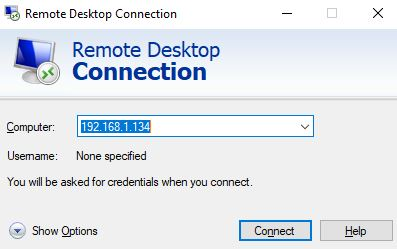
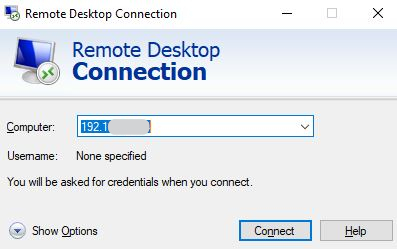
rebuilding site Sat  8 Jul 13:57:17 UTC 2023

Changed region(s): [[0.272, 0.4779, 0.3929, 0.5622]]

diff --git a/data_projects/pi_ssh/index.html b/data_projects/pi_ssh/index.html
@@ -106,8 +106,8 @@ The SSH access is ideal for cases with exclusive involvement of the terminal. Th
   "keywords": [
     "cli", "shell", "raspberry pi", "linux", "ssh"
   ],
-  "articleBody": "Summary This article documents how to remotely access your Raspberry Pi using either Secure Shell (SSH) or Remote Desktop Protocol (RDP).\nThe benefit of remote access is that you do not need to constantly plug in a wired keyboard and mouse to do some configuration on your Pi devices.\nThe SSH access is ideal for cases with exclusive involvement of the terminal. The remote desktop acess is requied for situations using the graphical desktop environment.\nIP Address Something thats common to both processes is that they both require the IP Address of the device.\nTo get the IP address, you can type this command into the Raspberry Pi terminal:\nhostname -I # or ping raspberrypi.local # or ifconfig Secure Shell (SSH) Remote Access For the SSH Remote Acess, I will be connecting to my Raspberry Pi via my Arch Linux VM which is running a zsh terminal. But you can follow this process on any shell, it will be exactly the same.\nPre-requisites Set up wireless networking capability onto the boot disc. Obtain Raspberry Pi’s IP Address Create hostname for IP in the /etc/hosts file Setting Up Networking Assuming you are running a minimal distribution such as Raspberry Pi Lite OS, you will need a way to get access to the internet.\nGet the SD from the Pi which has the image installed onto it, and read it from your main PC.\nThe following steps will be performed in git bash, but you can also do this in your file explorer:\nNavigate to the boot device volume and create an ssh file:\ntouch ssh In the same directory (boot), we need to make a wpa_supplicant.conf file. This will provide the configuration to enable you to connect your wireless network setup.\nvim wpa_supplicant.conf Then enter the following into the configuration, and substitute the placeholders with your own network SSID and password to access the Wi-Fi.\nctrl_interface=DIR=/var/run/wpa_supplicant GROUP=netdev update_config=1 country= network={ ssid=\"WIFI-NAME\" psk=\"WIFI-PASSWORD\" } You can safely remove the SD card from your PC.\nPut the SD Card back into the Pi and power it on.\nSSH Into Raspberry Pi Via Terminal From the terminal of the machine you are trying to attempt the remote access, you can SSH using this command:\nssh @ If you didn’t configure your pi user crentials, for reference these are the defaults:\nusername: pi password: raspberry So the SSH command may look like this for example:\nssh pi@192.168.1.134 You would then be prompted with a password for which you will have to enter in order to gain access.\nIf you have made your own username and password, then substitute with your own credentials.\nThe userame on the Raspberry Pi is filpill, so it would be modified like this:\nssh filpill@192.168.1.134 Replacing IP Address with Hostname SSH Protocol Now obviously its not that easy to remember an IP address everytime you want to SSH into the Pi. So we could store an alias for the IP in the /etc/hosts directory.\nsudo vim /etc/hosts You’ll want to add a line in this file with the IP Address and hostname of the Raspberry Pi. The line you will add will look similar to this:\n192.168.1.134 raspberrypi So the next time you want to SSH into the Pi, instead of writing the full IP address, you can just write this:\nssh filpill@raspberrypi The command functions all the same in additon to being much easier to remember into the future.\nRemote Desktop Access via Windows For demonstation purposes I will be using the Windows 10 Remote Desktop Connection application to provide my access. The same concepts can be applied to alternative software.\nPre-requisites There are a few of pre-requisite tasks to complete before attempting remote access:\nInstall a Graphical OS environment for the Pi Obtain the Pi’s IP Address Install xrdp on the Raspberry Pi Add a secondary user to the Raspberry Pi with Sudo privillages Enable Remote Desktop Access in the raspi-config Install xrdp To install xrdp, type this command into the Raspberry Pi terminal:\nsudo apt-get install xrdp Then you need to start the xrdp service like this:\nsudo systemctl start xrdp New/Secondary User To add a new user, type this command:\nsudo adduser Skip all the prompts to fill in user detaiils with the Enter Key.\nThen to give the user sudo privileges i.e. adding them to the sudo group:\nsudo adduser sudo Enable Remote Desktop Access To enable this access, you need to enter the command:\nsudo raspi-config You need to navigate it the interface options; you need to enable the graphical remote access on the VNC option.\nThen finish the config to apply the settings and reset the Raspberry Pi.\nWindows - Remote Desktop Connection Application Now you can switch back to the Windows PC environment.\nOpen the Remote Desktop Connection App.\nEnter the IP Address you noted earlier from the Raspberry Pi and proceed to connect.\nYou should find yourself inside a login screen for xdrp.\nFor the user credentials, you should use the username and password you created on the Raspberry Pi as the secondary user.\nYou should now have graphical access to your Raspberry Pi via your Windows Machine.\nNote: This RDP procedure only works in a graphical OS, this does not apply to minimalist operating systems without a graphical UI because the display server will have nothing to render.\n",
-  "wordCount" : "898",
+  "articleBody": "Summary This article documents how to remotely access your Raspberry Pi using either Secure Shell (SSH) or Remote Desktop Protocol (RDP).\nThe benefit of remote access is that you do not need to constantly plug in a wired keyboard and mouse to do some configuration on your Pi devices.\nThe SSH access is ideal for cases with exclusive involvement of the terminal. The remote desktop acess is requied for situations using the graphical desktop environment.\nIP Address Something thats common to both processes is that they both require the IP Address of the device.\nTo get the IP address, you can type this command into the Raspberry Pi terminal:\nhostname -I # or ping raspberrypi.local # or ifconfig Secure Shell (SSH) Remote Access For the SSH Remote Acess, I will be connecting to my Raspberry Pi via my Arch Linux VM which is running a zsh terminal. But you can follow this process on any shell, it will be exactly the same.\nPre-requisites Set up wireless networking capability onto the boot disc. Obtain Raspberry Pi’s IP Address Create hostname for IP in the /etc/hosts file Setting Up Networking Assuming you are running a minimal distribution such as Raspberry Pi Lite OS, you will need a way to get access to the internet.\nGet the SD from the Pi which has the image installed onto it, and read it from your main PC.\nThe following steps will be performed in git bash, but you can also do this in your file explorer:\nNavigate to the boot device volume and create an ssh file:\ntouch ssh In the same directory (boot), we need to make a wpa_supplicant.conf file. This will provide the configuration to enable you to connect your wireless network setup.\nvim wpa_supplicant.conf Then enter the following into the configuration, and substitute the placeholders with your own network SSID and password to access the Wi-Fi.\nctrl_interface=DIR=/var/run/wpa_supplicant GROUP=netdev update_config=1 country= network={ ssid=\"WIFI-NAME\" psk=\"WIFI-PASSWORD\" } You can safely remove the SD card from your PC.\nPut the SD Card back into the Pi and power it on.\nSSH Into Raspberry Pi Via Terminal From the terminal of the machine you are trying to attempt the remote access, you can SSH using this command:\nssh @ If you didn’t configure your pi user crentials, for reference these are the defaults:\nusername: pi password: raspberry So the SSH command may look like this for example:\nssh pi@192.---.-.--- You would then be prompted with a password for which you will have to enter in order to gain access.\nBut for security purposes I recommend you make your own username and password, then substitute with your own credentials.\nThe userame on the Raspberry Pi is filpill, so it would be modified like this:\nssh filpill@192.---.-.--- Replacing IP Address with Hostname Now obviously its not that easy to remember an IP address everytime you want to SSH into the Pi. So we could store an alias for the IP in the /etc/hosts directory.\nsudo vim /etc/hosts You’ll want to add a line in this file with the IP Address and hostname of the Raspberry Pi. The line you will add will look similar to this:\n192.---.-.--- raspberrypi So the next time you want to SSH into the Pi, instead of writing the full IP address, you can just write this:\nssh filpill@raspberrypi The command functions all the same in additon to being much easier to remember into the future.\nSSH Keys - Passwordless Access In order to increase the security of the SSH protocol, its recommended to create a set of SSH keys.\nYou can simply create a key-pair in your shell with this command:\nssh-keygen Then you will want to get the public key onto the raspberry pi to enable the key pair interaction. And it’s similar to SSH’ing into your device.\nssh-copy-id filpill@raspberrypi This will copy the public key into your pi, so the next time you try to SSH into the Pi, it will automatically unlock using the private key on your computer.\nRemote Desktop Access via Windows For demonstation purposes I will be using the Windows 10 Remote Desktop Connection application to provide my access. The same concepts can be applied to alternative software.\nPre-requisites There are a few of pre-requisite tasks to complete before attempting remote access:\nInstall a Graphical OS environment for the Pi Obtain the Pi’s IP Address Install xrdp on the Raspberry Pi Add a secondary user to the Raspberry Pi with Sudo privillages Enable Remote Desktop Access in the raspi-config Install xrdp To install xrdp, type this command into the Raspberry Pi terminal:\nsudo apt-get install xrdp Then you need to start the xrdp service like this:\nsudo systemctl start xrdp New/Secondary User To add a new user, type this command:\nsudo adduser Skip all the prompts to fill in user detaiils with the Enter Key.\nThen to give the user sudo privileges i.e. adding them to the sudo group:\nsudo adduser sudo Enable Remote Desktop Access To enable this access, you need to enter the command:\nsudo raspi-config You need to navigate it the interface options; you need to enable the graphical remote access on the VNC option.\nThen finish the config to apply the settings and reset the Raspberry Pi.\nWindows - Remote Desktop Connection Application Now you can switch back to the Windows PC environment.\nOpen the Remote Desktop Connection App.\nEnter the IP Address you noted earlier from the Raspberry Pi and proceed to connect.\nYou should find yourself inside a login screen for xdrp.\nFor the user credentials, you should use the username and password you created on the Raspberry Pi as the secondary user.\nYou should now have graphical access to your Raspberry Pi via your Windows Machine.\nNote: This RDP procedure only works in a graphical OS, this does not apply to minimalist operating systems without a graphical UI because the display server will have nothing to render.\n",
+  "wordCount" : "997",
   "inLanguage": "en",
   "image":"https://filpill.github.io/img/piSSH/pi_ssh_rdp.png","datePublished": "2023-07-06T00:00:00Z",
   "dateModified": "2023-07-06T00:00:00Z",
@@ -233,29 +233,27 @@ The SSH access is ideal for cases with exclusive involvement of the terminal. Th
                     <a href="#secure-shell-ssh-remote-access" aria-label="Secure Shell (SSH) Remote Access">Secure Shell (SSH) Remote Access</a><ul>
                         
                 <li>
-                    <a href="#pre-requisites" aria-label="Pre-requisites">Pre-requisites</a><ul>
-                        
+                    <a href="#pre-requisites" aria-label="Pre-requisites">Pre-requisites</a></li>
                 <li>
-                    <a href="#setting-up-networking" aria-label="Setting Up Networking">Setting Up Networking</a></li></ul>
-                </li>
+                    <a href="#setting-up-networking" aria-label="Setting Up Networking">Setting Up Networking</a></li>
                 <li>
                     <a href="#ssh-into-raspberry-pi-via-terminal" aria-label="SSH Into Raspberry Pi Via Terminal">SSH Into Raspberry Pi Via Terminal</a></li>
                 <li>
-                    <a href="#replacing-ip-address-with-hostname-ssh-protocol" aria-label="Replacing IP Address with Hostname SSH Protocol">Replacing IP Address with Hostname SSH Protocol</a></li></ul>
+                    <a href="#replacing-ip-address-with-hostname" aria-label="Replacing IP Address with Hostname">Replacing IP Address with Hostname</a></li>
+                <li>
+                    <a href="#ssh-keys---passwordless-access" aria-label="SSH Keys - Passwordless Access">SSH Keys - Passwordless Access</a></li></ul>
                 </li>
                 <li>
                     <a href="#remote-desktop-access-via-windows" aria-label="Remote Desktop Access via Windows">Remote Desktop Access via Windows</a><ul>
                         
                 <li>
-                    <a href="#pre-requisites-1" aria-label="Pre-requisites">Pre-requisites</a><ul>
-                        
+                    <a href="#pre-requisites-1" aria-label="Pre-requisites">Pre-requisites</a></li>
                 <li>
                     <a href="#install-xrdp" aria-label="Install xrdp">Install xrdp</a></li>
                 <li>
                     <a href="#newsecondary-user" aria-label="New/Secondary User">New/Secondary User</a></li>
                 <li>
-                    <a href="#enable-remote-desktop-access" aria-label="Enable Remote Desktop Access">Enable Remote Desktop Access</a></li></ul>
-                </li>
+                    <a href="#enable-remote-desktop-access" aria-label="Enable Remote Desktop Access">Enable Remote Desktop Access</a></li>
                 <li>
                     <a href="#windows---remote-desktop-connection-application" aria-label="Windows - Remote Desktop Connection Application">Windows - Remote Desktop Connection Application</a>
                 </li>
@@ -292,7 +290,7 @@ ifconfig
 <li>Obtain Raspberry Pi&rsquo;s IP Address</li>
 <li>Create hostname for IP in the /etc/hosts file</li>
 </ul>
-<h4 id="setting-up-networking">Setting Up Networking<a hidden class="anchor" aria-hidden="true" href="#setting-up-networking">#</a></h4>
+<h3 id="setting-up-networking">Setting Up Networking<a hidden class="anchor" aria-hidden="true" href="#setting-up-networking">#</a></h3>
 <p>Assuming you are running a minimal distribution such as Raspberry Pi Lite OS, you will need a way to get access to the internet.</p>
 <p>Get the SD from the Pi which has the image installed onto it, and read it from your main PC.</p>
 <p>The following steps will be performed in git bash, but you can also do this in your file explorer:</p>
@@ -319,18 +317,18 @@ network={
 <li>password: raspberry</li>
 </ul>
 <p>So the SSH command may look like this for example:</p>
-<pre tabindex="0"><code class="language-[bash]" data-lang="[bash]">ssh pi@192.168.1.134
+<pre tabindex="0"><code class="language-[bash]" data-lang="[bash]">ssh pi@192.---.-.---
 </code></pre><p>You would then be prompted with a password for which you will have to enter in order to gain access.</p>
-<p>If you have made your own username and password, then substitute with your own credentials.</p>
+<p>But for security purposes I recommend you make your own username and password, then substitute with your own credentials.</p>
 <p>The userame on the Raspberry Pi is <strong>filpill</strong>, so it would be modified like this:</p>
-<pre tabindex="0"><code class="language-[bash]" data-lang="[bash]">ssh filpill@192.168.1.134
+<pre tabindex="0"><code class="language-[bash]" data-lang="[bash]">ssh filpill@192.---.-.---
 </code></pre><p><img loading="lazy" src="/img/piSSH/ssh_ip.jpg#center" alt="SSH IP"  />
 </p>
-<h3 id="replacing-ip-address-with-hostname-ssh-protocol">Replacing IP Address with Hostname SSH Protocol<a hidden class="anchor" aria-hidden="true" href="#replacing-ip-address-with-hostname-ssh-protocol">#</a></h3>
+<h3 id="replacing-ip-address-with-hostname">Replacing IP Address with Hostname<a hidden class="anchor" aria-hidden="true" href="#replacing-ip-address-with-hostname">#</a></h3>
 <p>Now obviously its not that easy to remember an IP address everytime you want to SSH into the Pi. So we could store an alias for the IP in the <strong>/etc/hosts</strong> directory.</p>
 <pre tabindex="0"><code class="language-[bash]" data-lang="[bash]">sudo vim /etc/hosts
 </code></pre><p>You&rsquo;ll want to add a line in this file with the IP Address and hostname of the Raspberry Pi. The line you will add will look similar to this:</p>
-<pre tabindex="0"><code class="language-[bash]" data-lang="[bash]">192.168.1.134   raspberrypi
+<pre tabindex="0"><code class="language-[bash]" data-lang="[bash]">192.---.-.---   raspberrypi
 </code></pre><p>So the next time you want to SSH into the Pi, instead of writing the full IP address, you can just write this:</p>
 <pre tabindex="0"><code class="language-[bash]" data-lang="[bash]">ssh filpill@raspberrypi
 </code></pre><p><img loading="lazy" src="/img/piSSH/ssh_hostname.jpg#center" alt="SSH Hostname"  />
@@ -338,6 +336,13 @@ network={
 <p><img loading="lazy" src="/img/piSSH/ssh_neofetch.jpg#center" alt="SSH Neofetch"  />
 </p>
 <p>The command functions all the same in additon to being much easier to remember into the future.</p>
+<h3 id="ssh-keys---passwordless-access">SSH Keys - Passwordless Access<a hidden class="anchor" aria-hidden="true" href="#ssh-keys---passwordless-access">#</a></h3>
+<p>In order to increase the security of the SSH protocol, its recommended to create a set of SSH keys.</p>
+<p>You can simply create a key-pair in your shell with this command:</p>
+<pre tabindex="0"><code class="language-[bash]" data-lang="[bash]">ssh-keygen
+</code></pre><p>Then you will want to get the public key onto the raspberry pi to enable the key pair interaction. And it&rsquo;s similar to SSH&rsquo;ing into your device.</p>
+<pre tabindex="0"><code class="language-[bash]" data-lang="[bash]">ssh-copy-id filpill@raspberrypi
+</code></pre><p>This will copy the public key into your pi, so the next time you try to SSH into the Pi, it will automatically unlock using the private key on your computer.</p>
 <h2 id="remote-desktop-access-via-windows">Remote Desktop Access via Windows<a hidden class="anchor" aria-hidden="true" href="#remote-desktop-access-via-windows">#</a></h2>
 <p>For demonstation purposes I will be using the <strong>Windows 10 Remote Desktop Connection</strong> application to provide my access. The same concepts can be applied to alternative software.</p>
 <h3 id="pre-requisites-1">Pre-requisites<a hidden class="anchor" aria-hidden="true" href="#pre-requisites-1">#</a></h3>
@@ -349,18 +354,18 @@ network={
 <li>Add a secondary user to the Raspberry Pi with Sudo privillages</li>
 <li>Enable Remote Desktop Access in the raspi-config</li>
 </ul>
-<h4 id="install-xrdp">Install xrdp<a hidden class="anchor" aria-hidden="true" href="#install-xrdp">#</a></h4>
+<h3 id="install-xrdp">Install xrdp<a hidden class="anchor" aria-hidden="true" href="#install-xrdp">#</a></h3>
 <p>To install xrdp, type this command into the Raspberry Pi terminal:</p>
 <pre tabindex="0"><code class="language-[bash]" data-lang="[bash]">sudo apt-get install xrdp
 </code></pre><p>Then you need to start the xrdp service like this:</p>
 <pre tabindex="0"><code class="language-[bash]" data-lang="[bash]">sudo systemctl start xrdp
-</code></pre><h4 id="newsecondary-user">New/Secondary User<a hidden class="anchor" aria-hidden="true" href="#newsecondary-user">#</a></h4>
+</code></pre><h3 id="newsecondary-user">New/Secondary User<a hidden class="anchor" aria-hidden="true" href="#newsecondary-user">#</a></h3>
 <p>To add a new user, type this command:</p>
 <pre tabindex="0"><code class="language-[bash]" data-lang="[bash]">sudo adduser &lt;INSERT USERNAME&gt;
 </code></pre><p>Skip all the prompts to fill in user detaiils with the Enter Key.</p>
 <p>Then to give the user sudo privileges i.e. adding them to the sudo group:</p>
 <pre tabindex="0"><code class="language-[bash]" data-lang="[bash]">sudo adduser &lt;INSERT USERNAME&gt; sudo
-</code></pre><h4 id="enable-remote-desktop-access">Enable Remote Desktop Access<a hidden class="anchor" aria-hidden="true" href="#enable-remote-desktop-access">#</a></h4>
+</code></pre><h3 id="enable-remote-desktop-access">Enable Remote Desktop Access<a hidden class="anchor" aria-hidden="true" href="#enable-remote-desktop-access">#</a></h3>
 <p>To enable this access, you need to enter the command:</p>
 <pre tabindex="0"><code class="language-[bash]" data-lang="[bash]">sudo raspi-config
 </code></pre><p>You need to navigate it the interface options; you need to enable the graphical remote access on the VNC option.</p>
